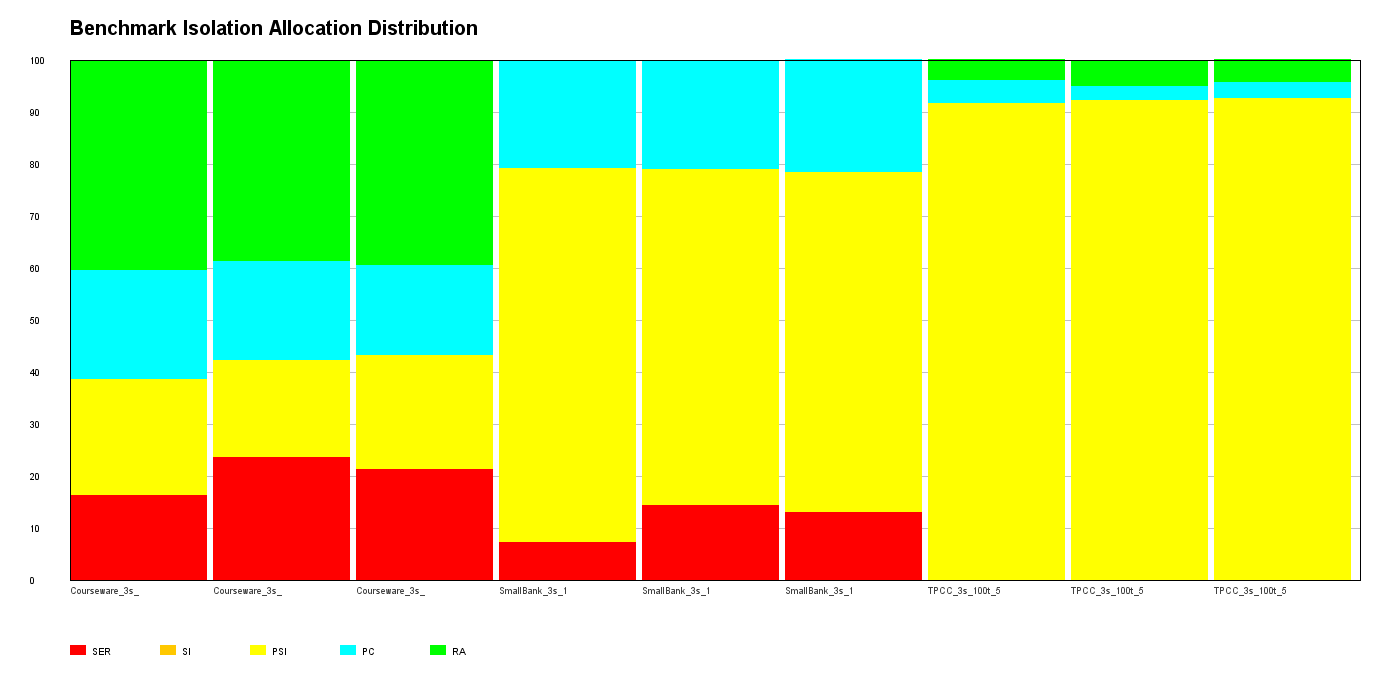
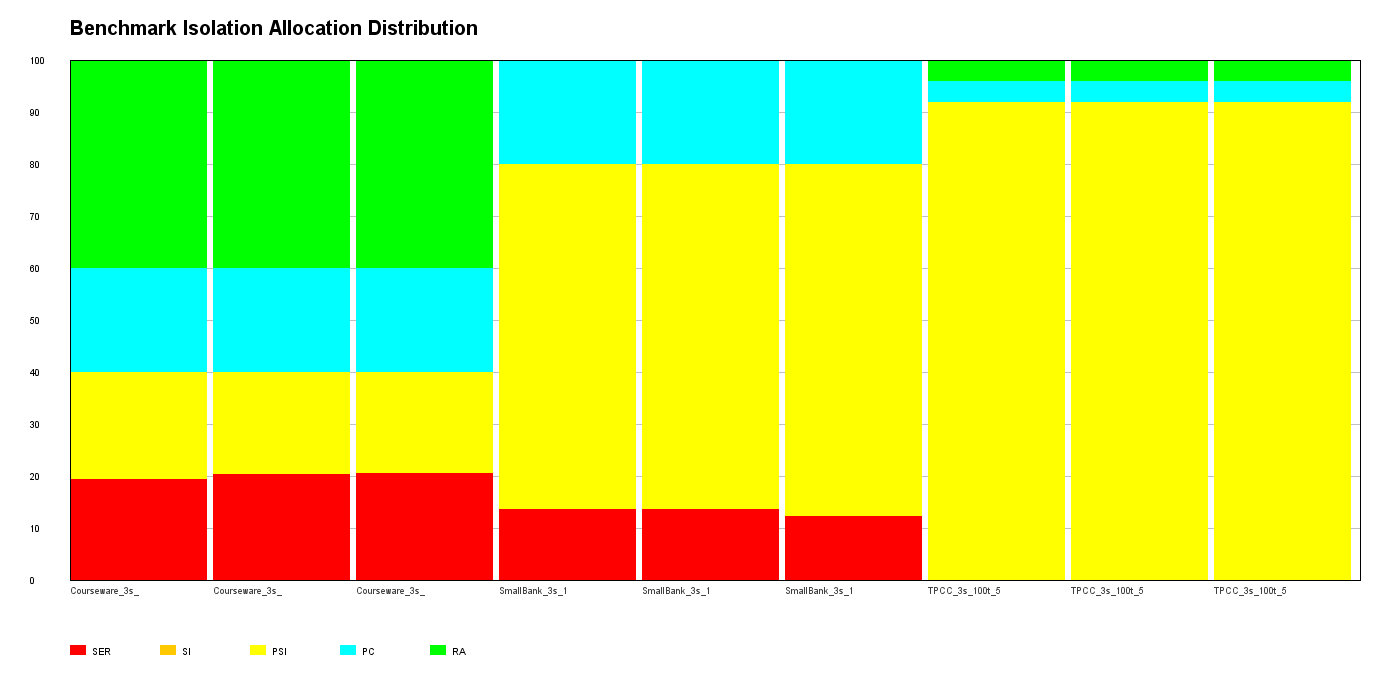
fix Q1 Q2 and get right results

diff --git a/src/main/java/algorithm/BenchWorkloadGenerator.java b/src/main/java/algorithm/BenchWorkloadGenerator.java
@@ -104,55 +104,68 @@ public class BenchWorkloadGenerator {
 
 	private List<ProgramInstance> instantiateTransactions(ArrayNode templates, int totalTxns) {
 		List<WeightedTemplate> weighted = new ArrayList<>();
-		for (JsonNode template : templates) {
+		for (int i = 0; i < templates.size(); i++) {
+			JsonNode template = templates.get(i);
 			double weight = template.path("percentage").asDouble(0.0);
-			weighted.add(new WeightedTemplate(template, Math.max(0.0, weight)));
+			weighted.add(new WeightedTemplate(template, Math.max(0.0, weight), i));
 		}
 
 		double totalWeight = weighted.stream().mapToDouble(w -> w.weight).sum();
-		if (totalWeight <= 0) {
+		if (totalWeight <= 0.0) {
 			for (WeightedTemplate w : weighted) {
 				w.weight = 1.0;
 			}
 			totalWeight = weighted.size();
 		}
 
-		double[] cumulative = new double[weighted.size()];
-		double running = 0.0;
-		for (int i = 0; i < weighted.size(); i++) {
-			running += weighted.get(i).weight;
-			cumulative[i] = running;
+		int assigned = 0;
+		for (WeightedTemplate w : weighted) {
+			double exact = (w.weight / totalWeight) * totalTxns;
+			w.baseCount = (int) Math.floor(exact);
+			w.remainder = exact - w.baseCount;
+			assigned += w.baseCount;
 		}
 
-		Map<String, Integer> nameCounter = new HashMap<>();
-		List<ProgramInstance> txns = new ArrayList<>();
-		for (int i = 0; i < totalTxns; i++) {
-			double pick = random.nextDouble() * totalWeight;
-			int idx = 0;
-			while (idx < cumulative.length && pick > cumulative[idx]) {
-				idx++;
+		int remaining = totalTxns - assigned;
+		weighted.sort((a, b) -> {
+			int cmp = Double.compare(b.remainder, a.remainder);
+			if (cmp != 0) {
+				return cmp;
 			}
-			if (idx >= weighted.size()) {
-				idx = weighted.size() - 1;
-			}
+			return Integer.compare(a.index, b.index);
+		});
+		for (int i = 0; i < remaining; i++) {
+			weighted.get(i % weighted.size()).baseCount++;
+		}
 
-			JsonNode template = weighted.get(idx).template;
+		weighted.sort(Comparator.comparingInt(w -> w.index));
+
+		Map<String, Integer> nameCounter = new HashMap<>();
+		List<ProgramInstance> txns = new ArrayList<>(totalTxns);
+		for (WeightedTemplate w : weighted) {
+			JsonNode template = w.template;
 			String name = template.path("name").asText("unknown");
 			IsolationLevel level = IsolationLevel.valueOf(template.path("isolationLevel").asText("SERIALIZABLE"));
 			ArrayNode operations = (ArrayNode) template.path("operations");
 			JsonNode paramsNode = template.path("params");
 
-			Map<String, Integer> paramValues = new HashMap<>();
-			if (paramsNode.isArray()) {
-				for (JsonNode p : paramsNode) {
-					paramValues.put(p.asText(), random.nextInt(maxKey) + 1);
+			for (int n = 0; n < w.baseCount; n++) {
+				Map<String, Integer> paramValues = new HashMap<>();
+				if (paramsNode.isArray()) {
+					for (JsonNode p : paramsNode) {
+						paramValues.put(p.asText(), random.nextInt(maxKey) + 1);
+					}
 				}
-			}
 
-			List<StaticOperation> concreteOps = instantiateOps(operations, paramValues);
-			int seq = nameCounter.getOrDefault(name, 0) + 1;
-			nameCounter.put(name, seq);
-			txns.add(new ProgramInstance(name + "_" + seq, level, concreteOps));
+				List<StaticOperation> concreteOps = instantiateOps(operations, paramValues);
+				int seq = nameCounter.getOrDefault(name, 0) + 1;
+				nameCounter.put(name, seq);
+				txns.add(new ProgramInstance(name + "_" + seq, level, concreteOps));
+			}
+		}
+
+		if (txns.size() != totalTxns) {
+			throw new IllegalStateException("Strict ratio allocation failed: expected " + totalTxns + " but got " + txns.size());
 		}
 
 		return txns;
@@ -212,10 +225,16 @@ public class BenchWorkloadGenerator {
 	private static class WeightedTemplate {
 		JsonNode template;
 		double weight;
+		double remainder;
+		int baseCount;
+		int index;
 
-		WeightedTemplate(JsonNode template, double weight) {
+		WeightedTemplate(JsonNode template, double weight, int index) {
 			this.template = template;
 			this.weight = weight;
+			this.remainder = 0.0;
+			this.baseCount = 0;
+			this.index = index;
 		}
 	}
 }
